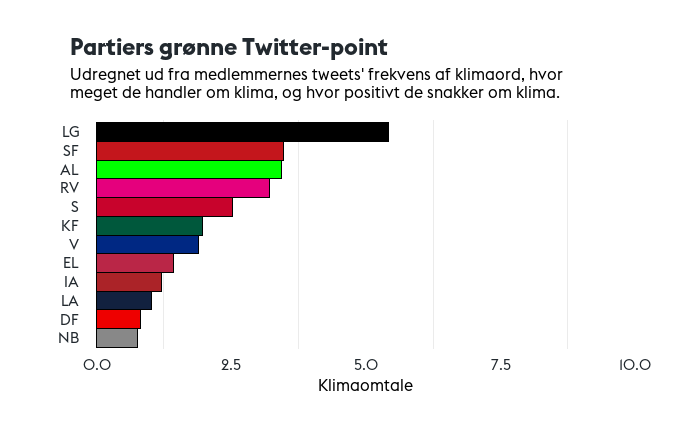
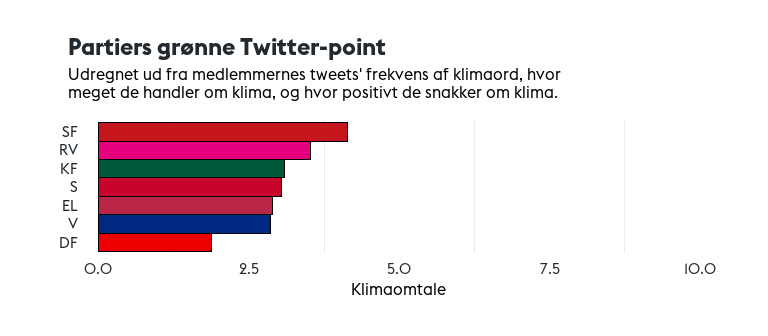
Updated figures

diff --git a/README.md b/README.md
@@ -13,12 +13,13 @@ betingelser, og vi dermed ikke må dele det.
 - [analysis.Rmd](analysis.Rmd) indeholder hele analysen ud over...
 - [analysis.py](analysis.py), der indeholder kode til at vurdere positivitet
 
-## Første fire tweets i emne 4
+## Første fem tweets i emne 14
 
-1. "fn s klimapanels nye rapport viser  at der skal handles nu for at mindske udledning af drivhusgasser fra landbruget  vi skal både se på landbrugsstøtten  jordreform og mere grøn forskning nu tager vi fat sammen   dkpol  landbrug  klima  ippc  srccl https   t co q2badhl5fy"       
-2. "fokus på grøn og bæredygtig godstransport her hos dhls innovationscenter i bonn    lastbiler der platooner og sparer brændstof  el lastbiler  droner og store ladcykler   super spændende og visionært    dkpol  dktrp  cyklistforbund  misvsvane  fdmdk https   t co s113xni729"       
-3. "ny klimalov skal binde sikre mindst 60  reduktion af drivhusgas i 2030   spolitik er klar til at hæve ambitionerne med et nyt grønt flertal  flere energibesparelser  flere grønne biler  mere havvind  en skovfond og reduktioner i landbruget  dkgreen  dkpol https   t co 7o7rfnv3tc"
-4. "klimamålet kræver politisk handling     omend over 100  grøn strøm på sigt  så kommer co2 udslip ikke langt ned  hvis ik landbrug og transport kommer med  vi skal have sat el til transporten og landbruget skal have bindende reduktionsmål   dkpol  dkgreen https   t co t7hexvj9se" 
+1. "rt  danmarksnatur  grønne trepartsforhandlinger  mere urørt skov  jordreform  naturplan med bindende mål og løfter om mere fredet og beskyt "                                                                                                                                                                            
+2. "fra sort os til grøn ros  flytrafikkens co2 udledning skal reduceres   dkgreen gjorde det med grøn omstilling af energien  nu skal transporten med  klogt at  sas selv at sætte kursen  fremtiden er grøn   også på vingerne  https   t co t9za9bvxvr"                                                                   
+3. "rt  signe munk  nu får danmark en ambitiøs og bindende klimalov med mål om 70 procent reduktion i 2030  bindende delmål  reel grøn omstilli "                                                                                                                                                                            
+4. "ny klimalov skal binde sikre mindst 60  reduktion af drivhusgas i 2030   spolitik er klar til at hæve ambitionerne med et nyt grønt flertal  flere energibesparelser  flere grønne biler  mere havvind  en skovfond og reduktioner i landbruget  dkgreen  dkpol https   t co 7o7rfnv3tc"                                 
+5. "vindmoller lavere afgift på el til varme og el til transport fremmer elektrificeringen  generel sænkelse af elafgift øger co2 udledningen indtil al el er grøn   dkpol  dkgreen"
 
 ## Figurer
 Emner fundet gennem maskinlæring (4 = klimaemne)
